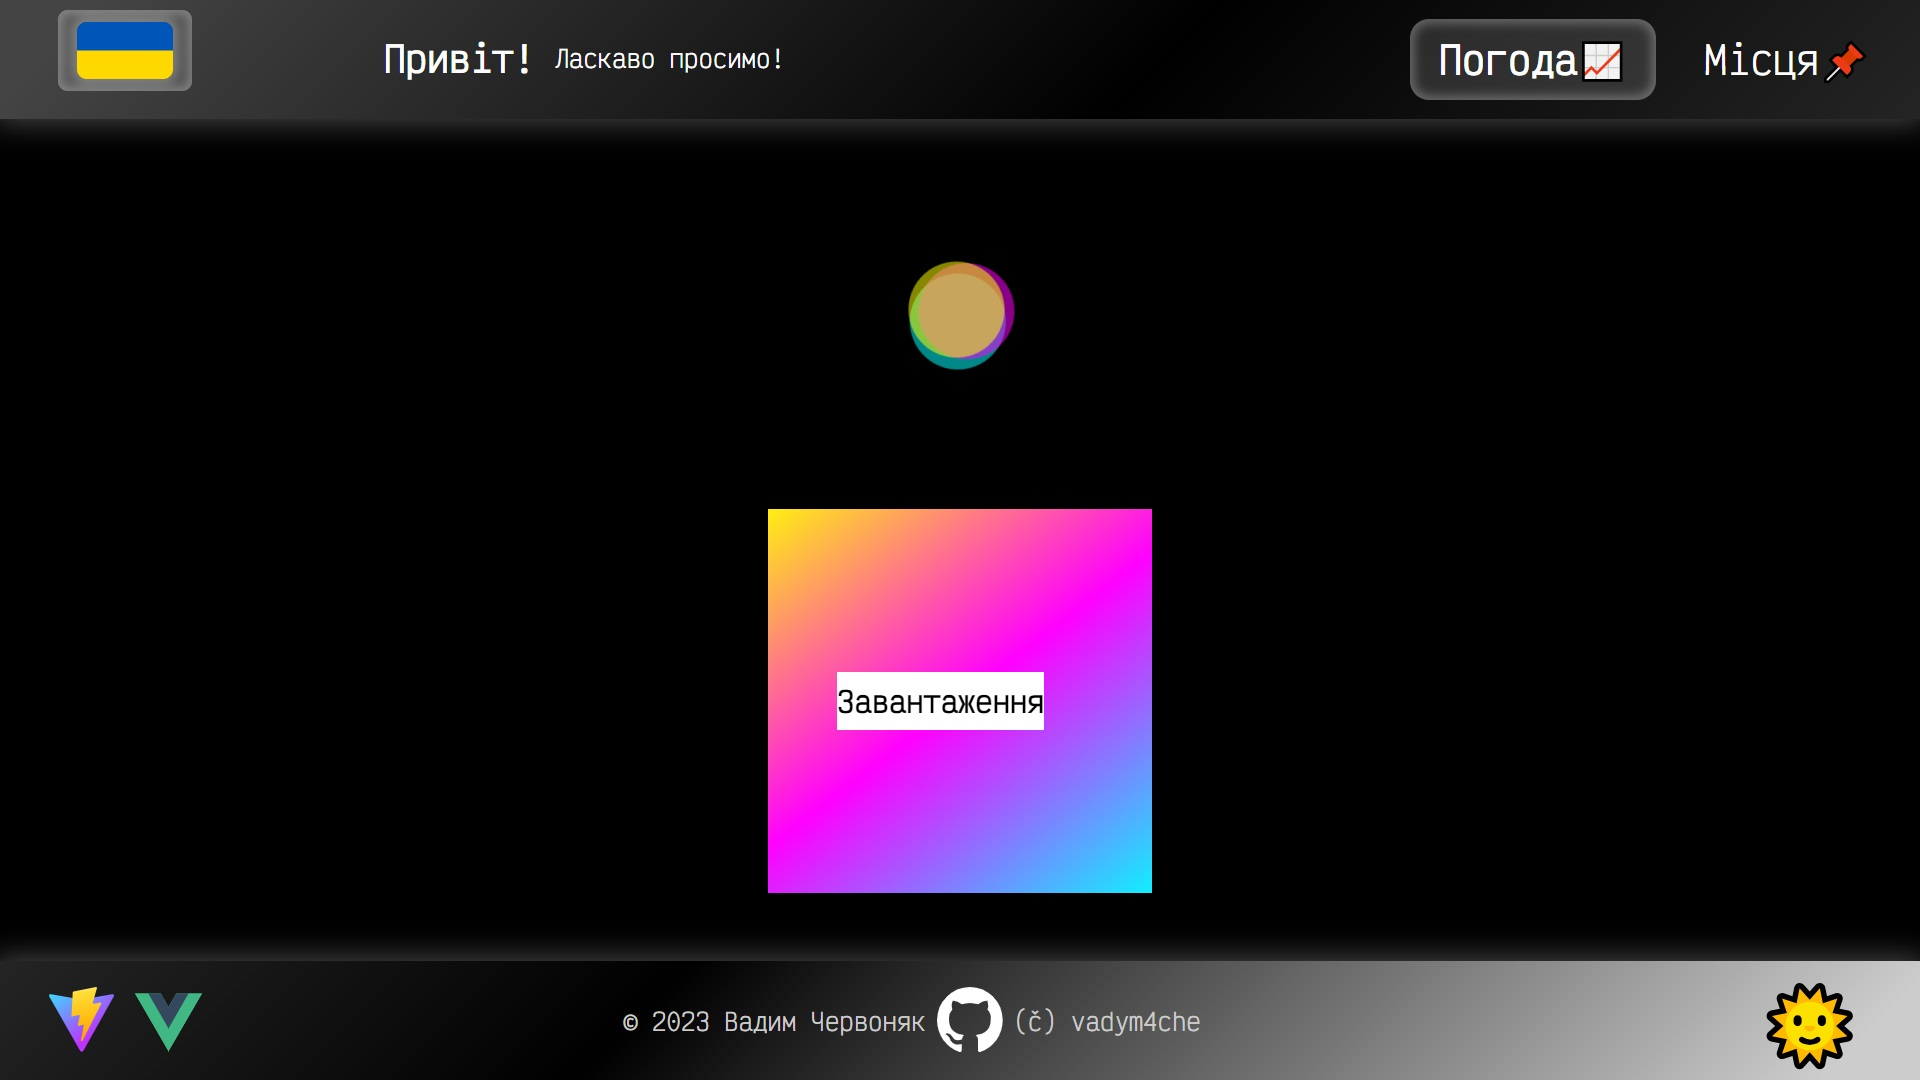
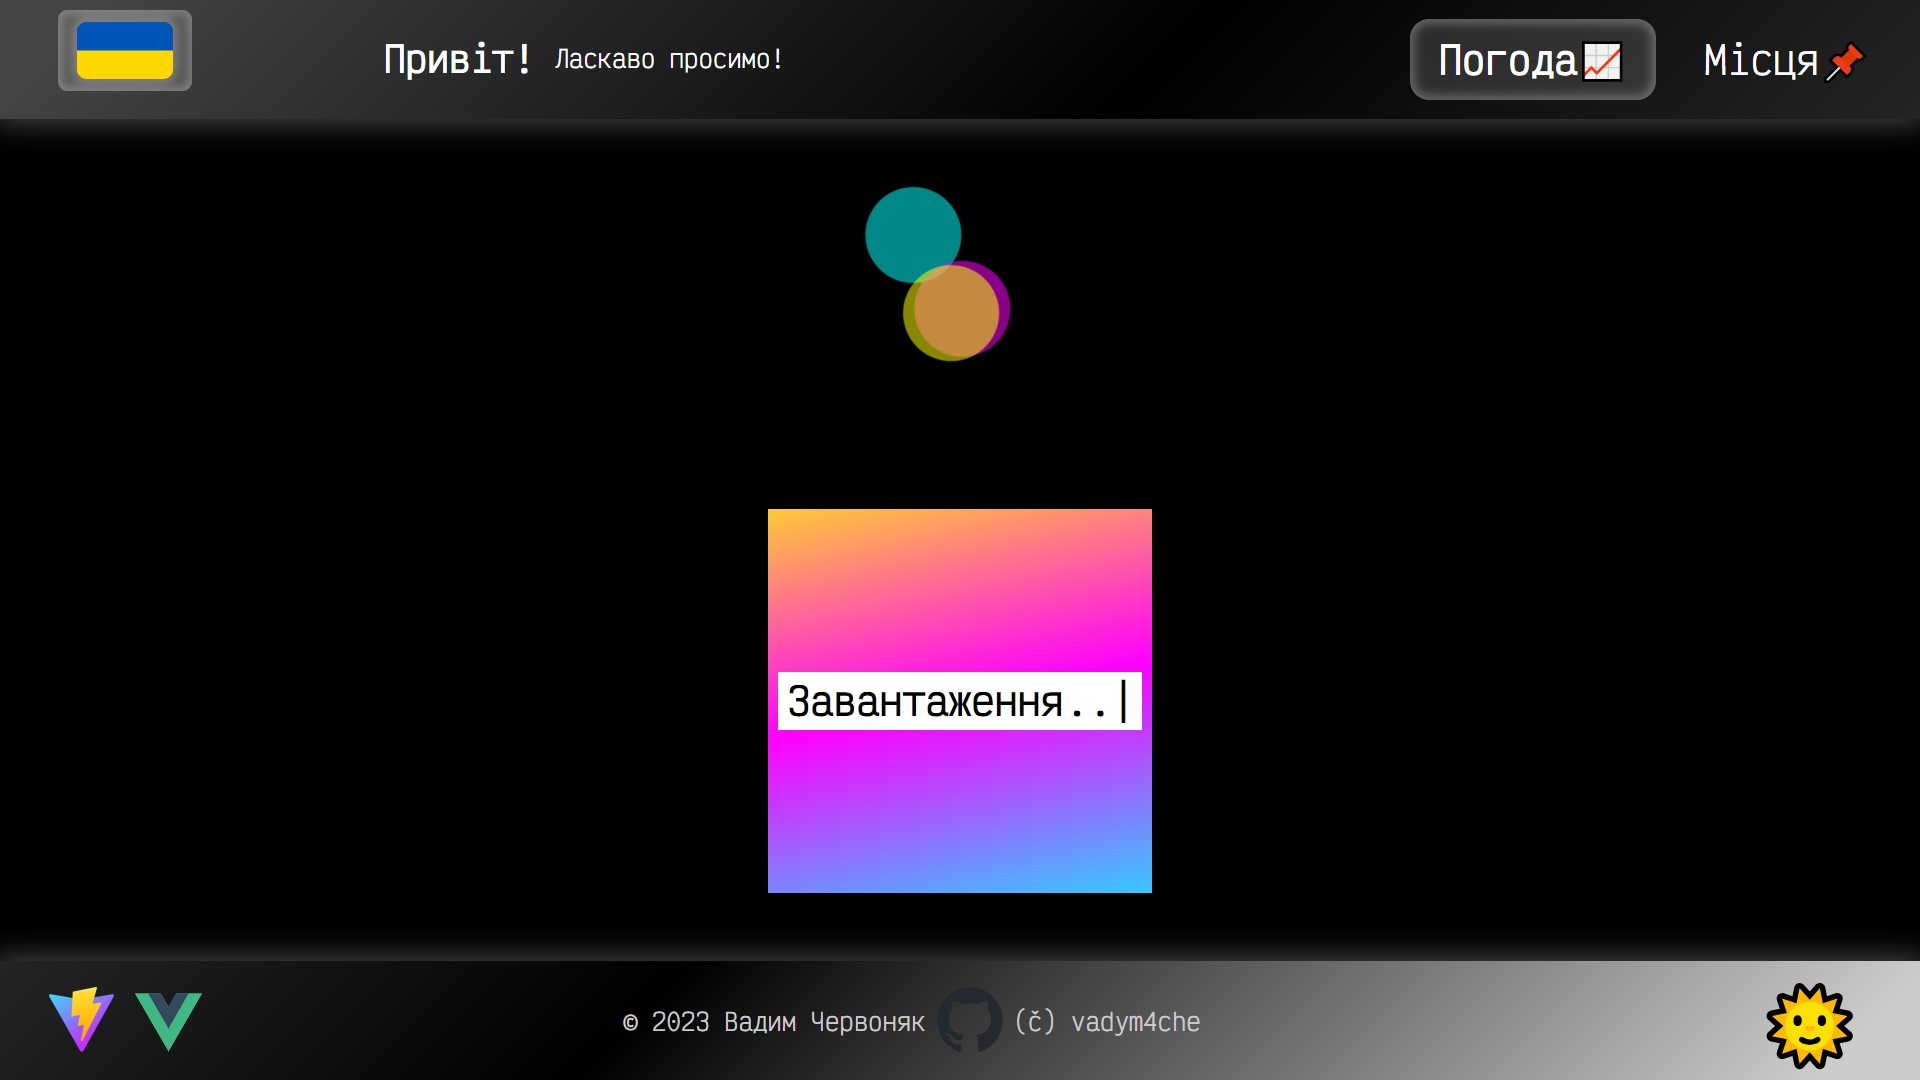
create dedicated route for preloader

Changed region(s): [[0.375, 0.4583, 0.625, 0.825], [0.4375, 0.1528, 0.5312, 0.3361], [0.4688, 0.9167, 0.5312, 0.9778]]

diff --git a/src/router.js b/src/router.js
@@ -14,6 +14,11 @@ const routes = [
     component: Favorites,
   },
   {
+    path: '/preloader',
+    name: 'Preloader',
+    component: () => import('./components/PreLoader.vue'),
+  },
+  {
     path: '/:catchAll(.*)',
     component: () => import('./views/404.vue'),
   },

diff --git a/src/components/PreLoader.vue b/src/components/PreLoader.vue
@@ -18,7 +18,7 @@
   position: fixed;
   width: 100dvw;
   height: 100dvh;
-  z-index: 15;
+  z-index: -1;
 
   .circles,
   .text {

diff --git a/README.md b/README.md
@@ -1,6 +1,6 @@
 # Vue Weather App
 
-
+[Live Demo](https://vadym4che.github.io/vue-weather-app/)
 
 ## Project structure
 
@@ -96,9 +96,10 @@ Actually I've implemented this * at first step with [geoapify.com](https://apido
 ![autodetect-ip1](https://github.com/vadym4che/vue-weather-app/blob/main/docs/10_autodetect_ip1.jpg)
 ![autodetect-ip2](https://github.com/vadym4che/vue-weather-app/blob/main/docs/10_autodetect_ip2.jpg)
 
-### 11. Preloaders **
+### 11. Preloaders \*\*
 I'm proud of my 'pure CSS' preloader, wich I've developed and integrated where necessary, such as during API requests.  
 ![preloader](https://github.com/vadym4che/vue-weather-app/blob/main/docs/11_preloader.jpg)
+I've created dedicated route to easily watch loader animation without any code changing to invoke it: [PreLoader.vue](https://vadym4che.github.io/vue-weather-app/preloader).
 
 ### 12. Multilingual Support \*\*\*
 It's second thing I was very interested - so I've implemented it firstly withing location autodetect.
